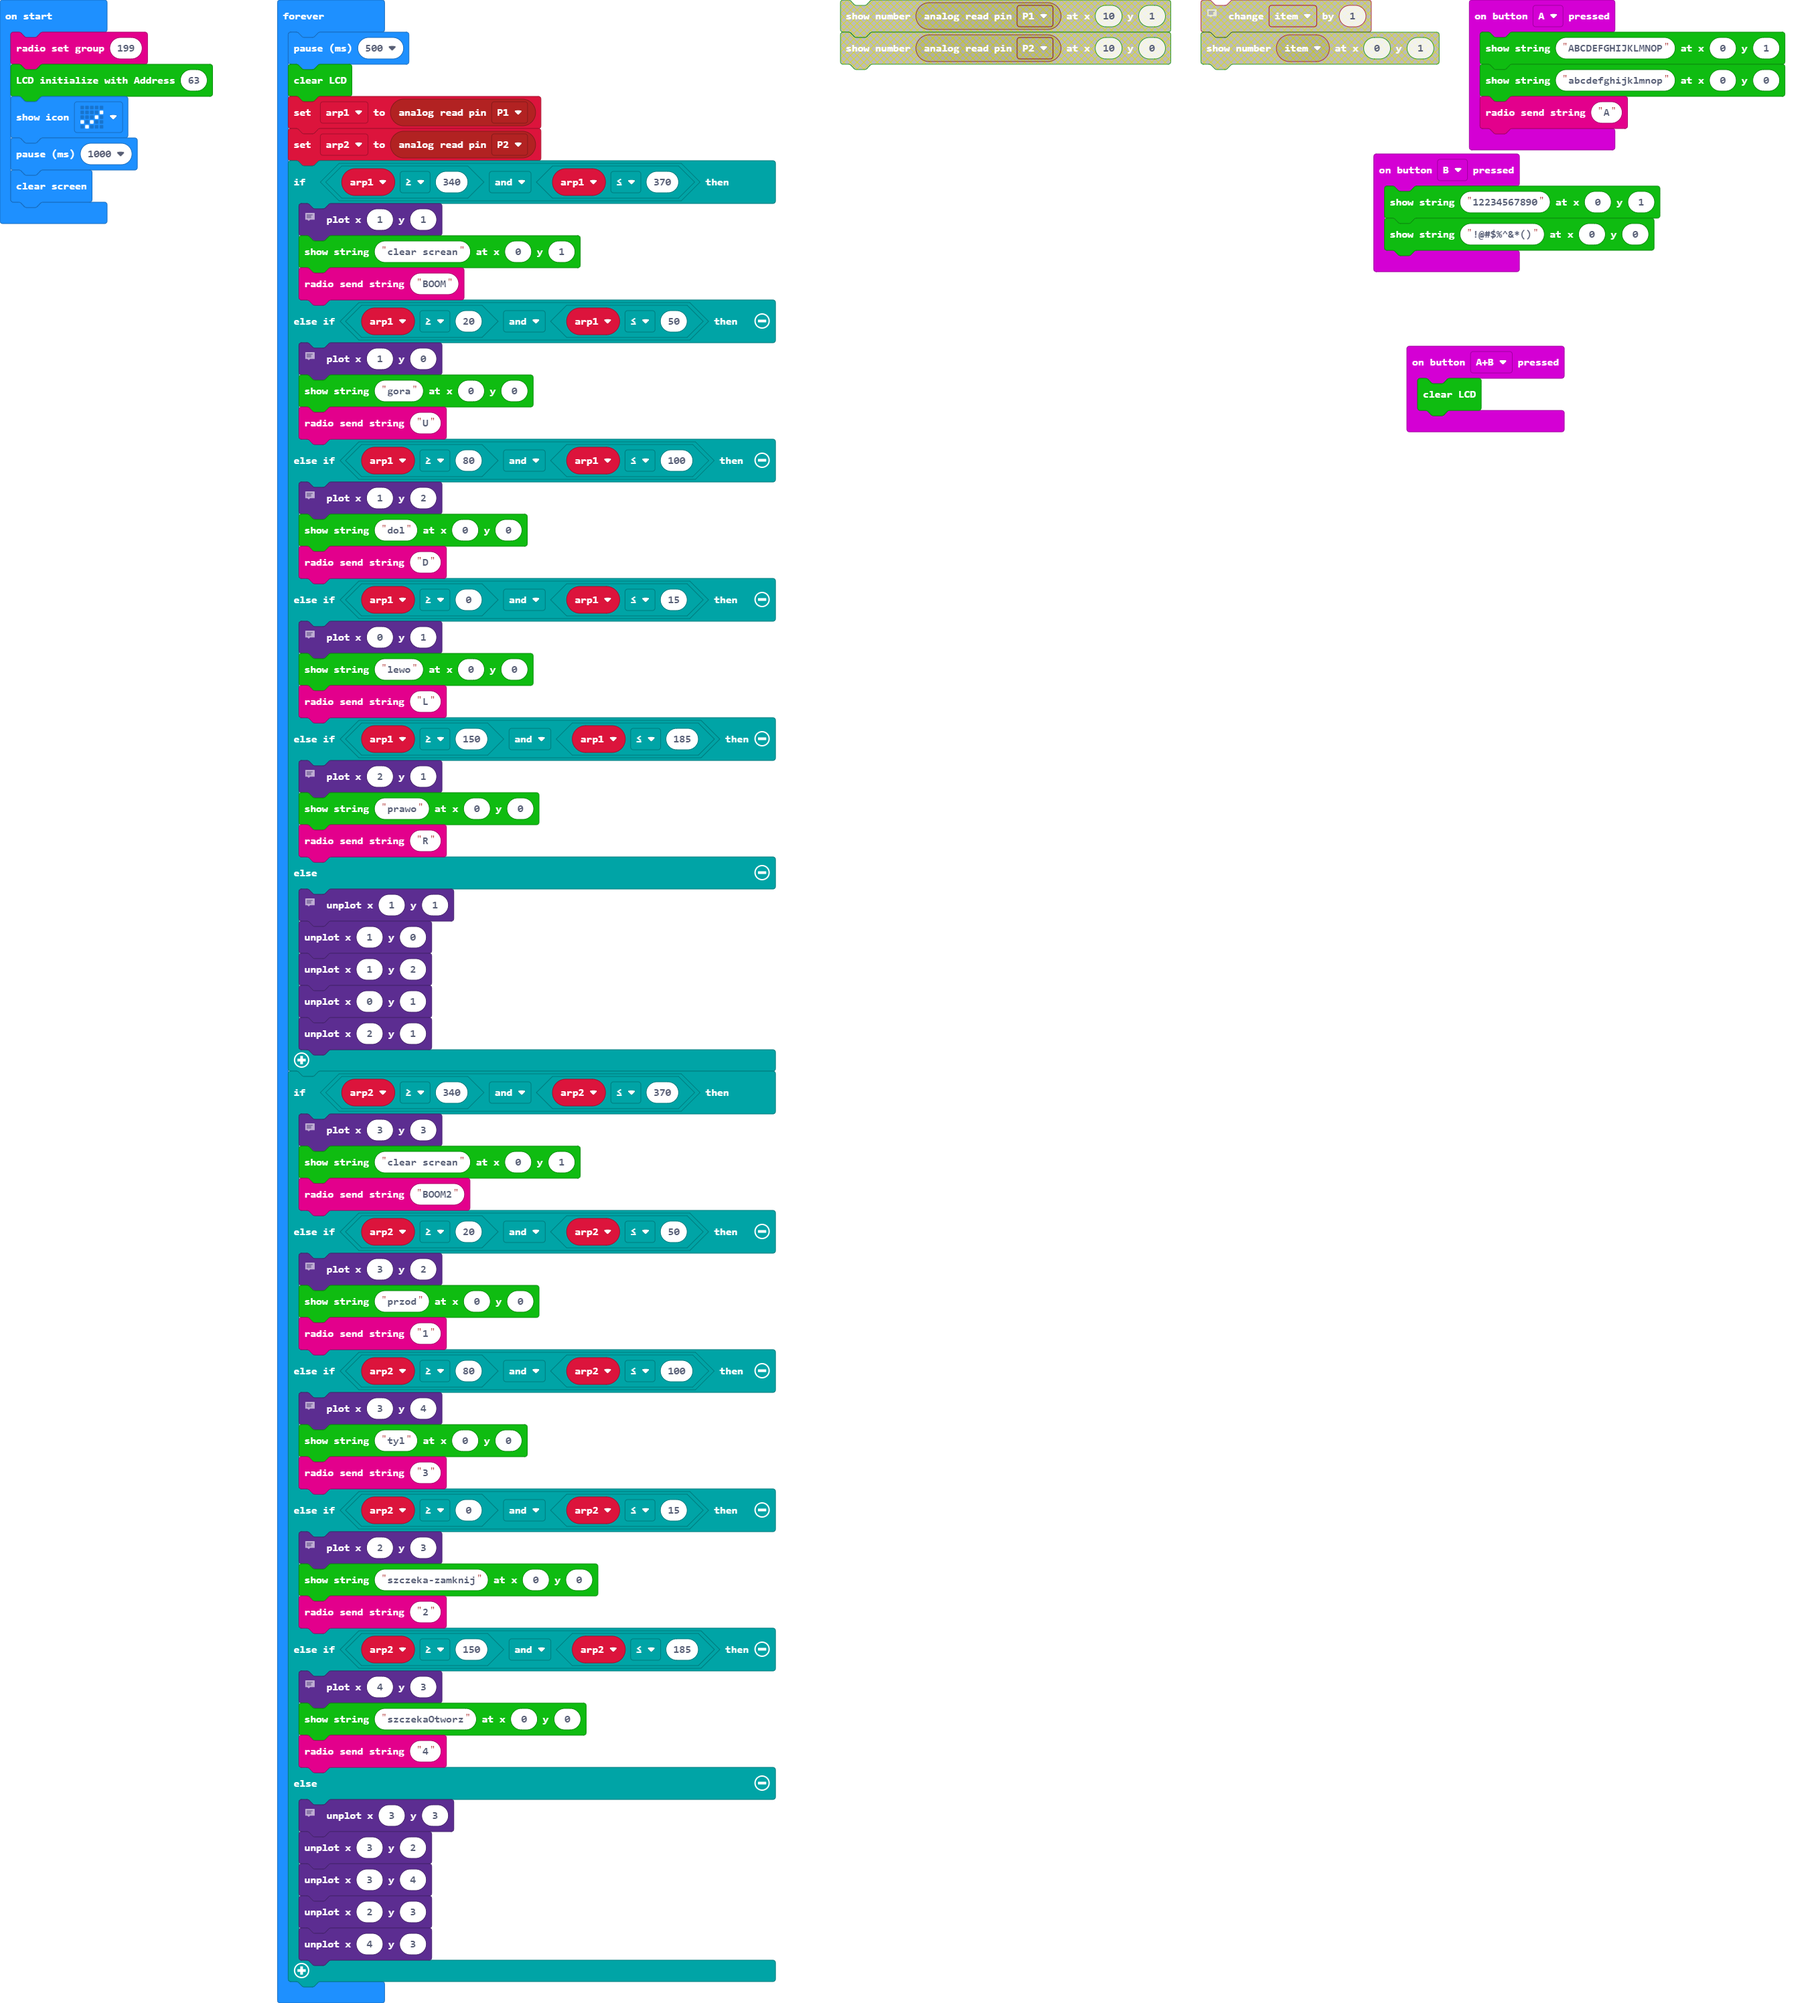
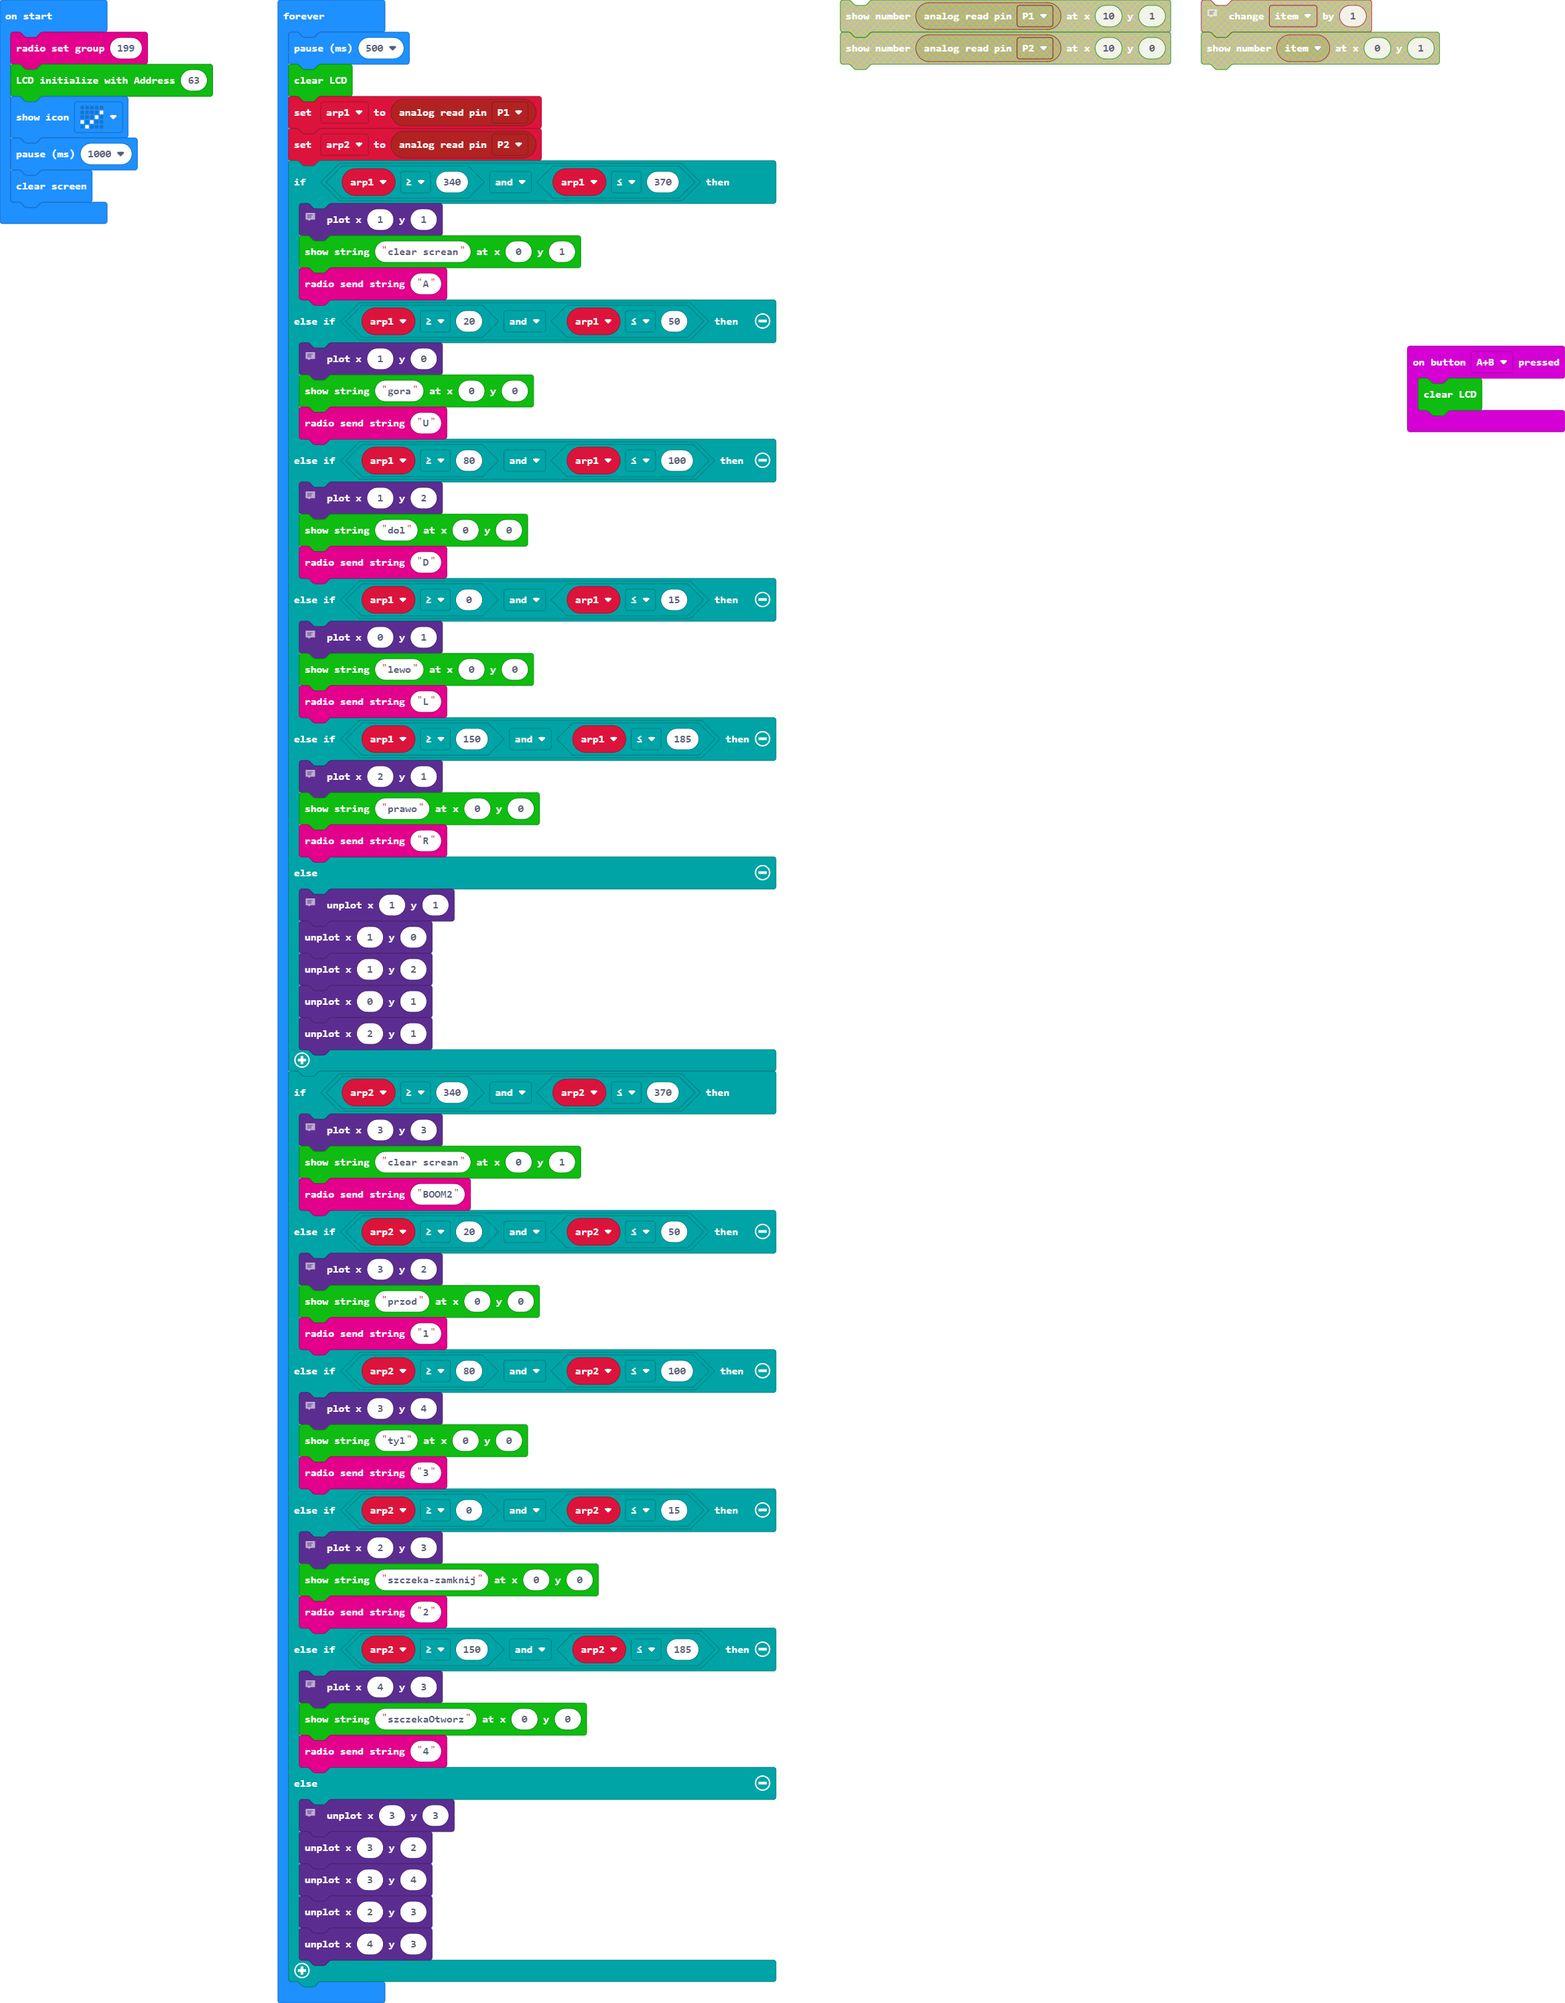
Update main.blocks, main.ts

diff --git a/main.ts b/main.ts
@@ -1,14 +1,5 @@
-input.onButtonPressed(Button.A, function () {
-    I2C_LCD1602.ShowString("ABCDEFGHIJKLMNOP", 0, 1)
-    I2C_LCD1602.ShowString("abcdefghijklmnop", 0, 0)
-    radio.sendString("A")
-})
 input.onButtonPressed(Button.AB, function () {
     I2C_LCD1602.clear()
-})
-input.onButtonPressed(Button.B, function () {
-    I2C_LCD1602.ShowString("12234567890", 0, 1)
-    I2C_LCD1602.ShowString("!@#$%^&*()", 0, 0)
 })
 let arp2 = 0
 let arp1 = 0
@@ -26,7 +17,7 @@ basic.forever(function () {
         // FIRE
         led.plot(1, 1)
         I2C_LCD1602.ShowString("clear screan", 0, 1)
-        radio.sendString("BOOM")
+        radio.sendString("A")
     } else if (arp1 >= 20 && arp1 <= 50) {
         // UP
         led.plot(1, 0)
